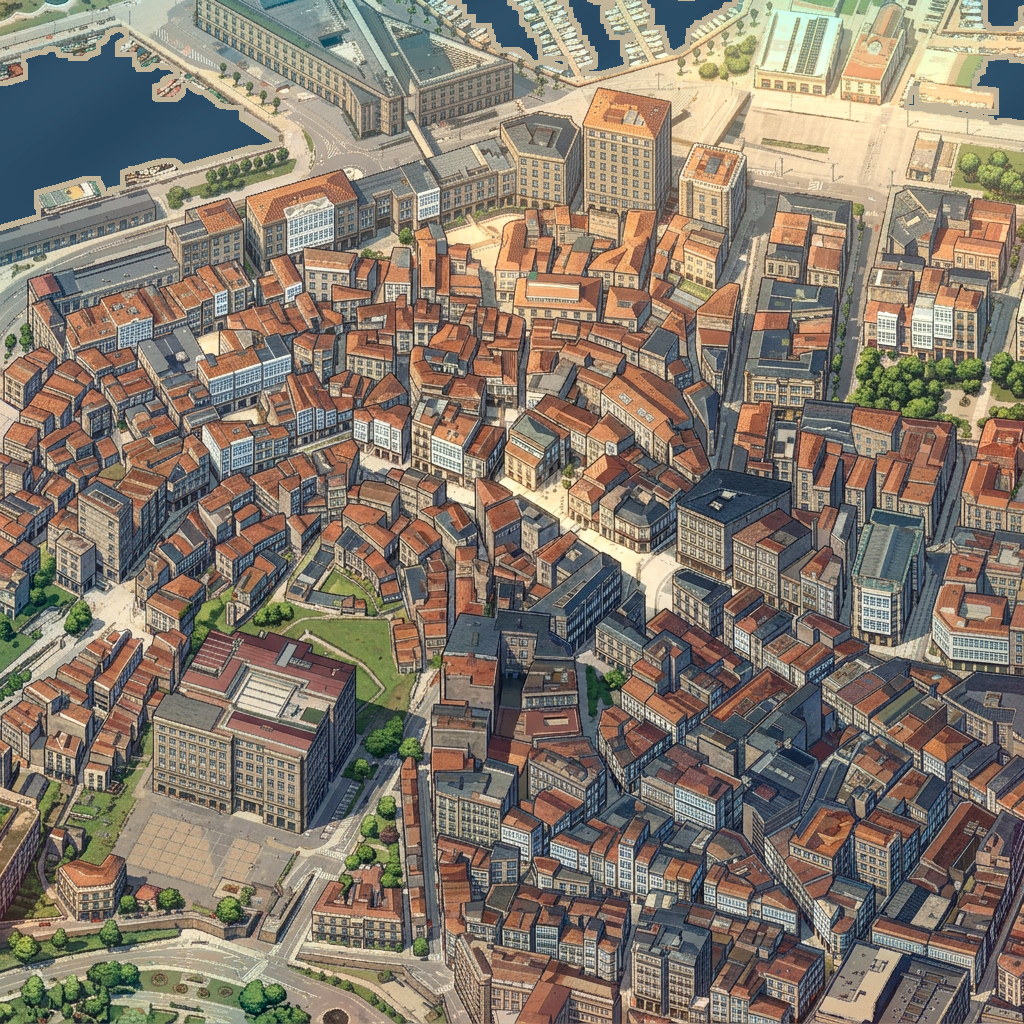
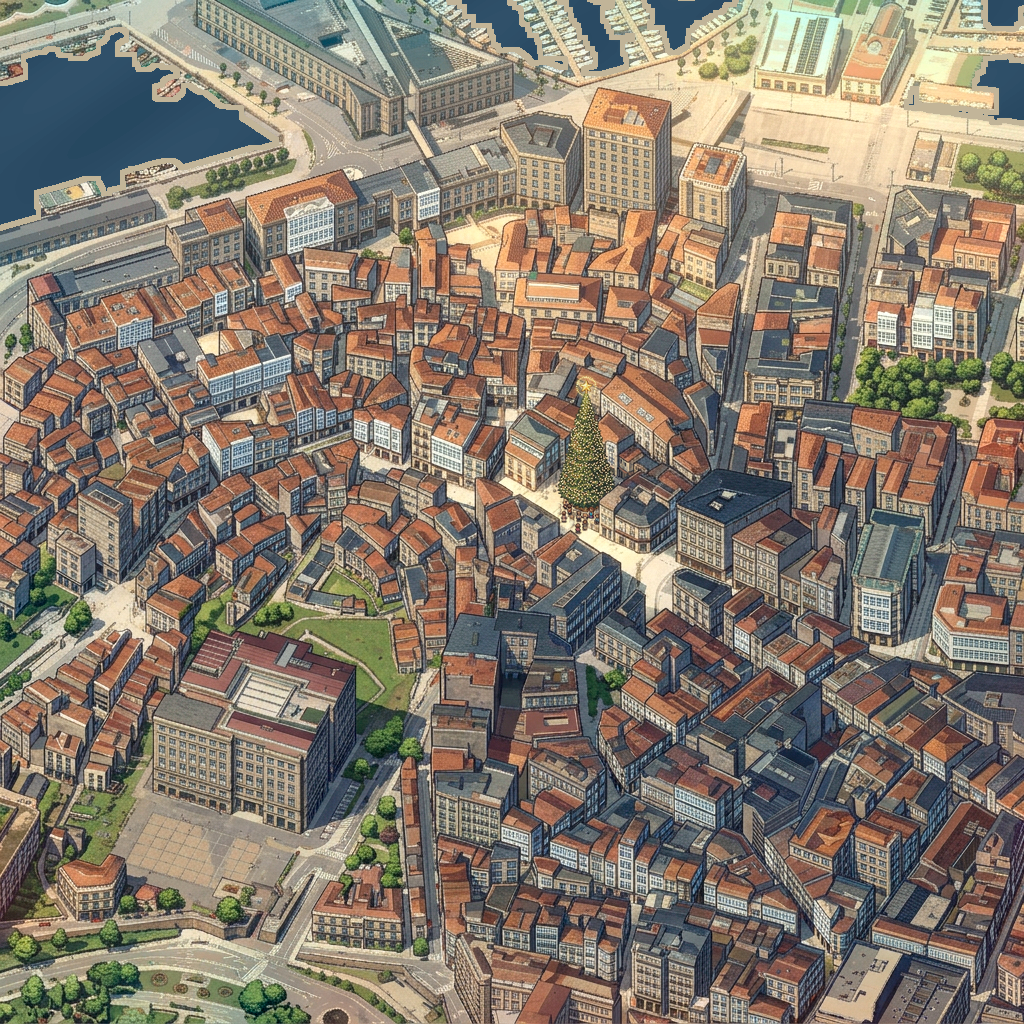
fix(map): locate and mask the Porta do Sol tree by the real plaza crop
The previous attempt fed the whole 512 m centre crop to the model, so the
45 m tree was negligible in frame and the model drew it over the wrong
square (by the Concello); the fixed-region mask then cut the real tree
out and kept only a patch of repainted roofs with no tree in it.

pipeline/arbol_porta_sol.py: crops a 350 px square straight out of the
georeferenced plaza centre (canvas centre = Porta do Sol, 42.23807
-8.72581), upscales it to 1024 px before the call, and builds the
composite mask from the model's own 1024 px output (open + largest
connected component kills the round-trip resampling noise that a plain
threshold picks up along the street) so it follows the tree + crowd +
shadow wherever they land, never a fixed box. Outside the mask the
result is bit-identical to the source. Night still needs the same fix.

diff --git a/web/ui/assets-prueba.html b/web/ui/assets-prueba.html
@@ -21,7 +21,7 @@
 <body>
 <h1>Prueba de asset: el árbol de Porta do Sol</h1>
 <p class="lead">Método: recorte del bloque ensamblado → el modelo pinta el árbol dentro, mismo estilo → se compone con máscara suave (fuera queda el bloque intacto). Sin croma ni recorte pegado.</p>
-<div class="aviso">Validación visual pendiente: el modelo de visión (OpenCode Go kimi-k3) está en límite. Compara tú por ahora.</div>
+<div class="aviso">Rehecho (pipeline/arbol_porta_sol.py): el intento anterior pintaba el árbol fuera de la Porta do Sol real y la máscara lo recortaba, dejando solo un parche de tejados repintados sin árbol. Ahora se recorta un cuadro de 350 px centrado en la plaza (georreferencia del lienzo, 42.23807 -8.72581), se amplía a 1024 px antes de llamar al modelo, y se compone con una máscara que sale del propio cambio de píxeles (árbol + gente + su sombra), no de una zona fija: fuera de ese contorno el resultado es bit a bit igual al original. Noche todavía pendiente de la misma corrección.</div>
 
 <h2>Día · antes / después (a escala real, 512 m)</h2>
 <div class="par">

diff --git a/pipeline/arbol_porta_sol.py b/pipeline/arbol_porta_sol.py
@@ -1,0 +1,127 @@
+"""Paint the 45 m Christmas tree of Porta do Sol inside the block, by code around one image call.
+
+Fixes the broken attempt of f134bee: the call was fed the whole 512 m centre crop (1024 px), so the
+45 m tree (60-90 px at 2 px/m) was lost in the frame and the model put a tree somewhere else (the big
+paved square by the Concello); the mask then kept a repainted patch of roofs with no tree in it at all.
+
+This script crops a small ~350 px square straight out of the geo-referenced centre of the canvas
+(canvas centre = Porta do Sol, 42.23807 -8.72581, per Jose), upscales it to 1024 px before the call so
+the model has room to draw fine light detail, downscales the answer back to 350 px, and composites it
+with a mask built from the actual pixel difference (tree + its shadow only) — never a fixed region, so
+it adapts to wherever the model really drew the tree. Buildings outside that footprint are bit-identical
+to the source.
+
+    python3 pipeline/arbol_porta_sol.py --call                 # spend one image call, then composite
+    python3 pipeline/arbol_porta_sol.py --from work/assets/arbol-porta-sol-out.png   # reuse an answer, no call
+"""
+from __future__ import annotations
+
+import argparse
+import os
+import subprocess
+import sys
+from pathlib import Path
+
+import cv2
+import numpy as np
+from PIL import Image
+
+ROOT = Path(__file__).resolve().parents[1]
+CANVAS = Path.home() / "proyectos/NaviHack/work/tiles-p3/ensamblado-v6.png"  # best current style (v6)
+OUT_DIR = ROOT / "work/assets"
+PROMPT = ROOT / "pipeline/prompts/arbol-add-full.txt"
+# centre of the plaza, found by eye around the geo-referenced canvas centre (1536,1536) = Porta do Sol
+CX, CY, HALF = 1608, 1518, 175  # box: (1433,1343)-(1783,1693), 350x350
+
+
+def crop_box() -> tuple[int, int, int, int]:
+    return (CX - HALF, CY - HALF, CX + HALF, CY + HALF)
+
+
+def build_mask(src: np.ndarray, dst: np.ndarray, *, open_px: int = 5, dilate_px: int = 9, blur: float = 5.0) -> np.ndarray:
+    """Soft mask of what the model actually changed, at the model's own 1024 px resolution (not after
+    the lossy downscale to 350 px, where the tree and the round-trip resampling noise sit too close in
+    magnitude to separate cleanly). OPEN before labelling drops the thin, scattered 1-2 px noise trail
+    along streets and roof edges; the tree + its crowd stay one thick solid blob, always the biggest
+    component after opening — nothing about its shape is assumed, so it follows wherever the model
+    really drew the tree."""
+    sl = cv2.cvtColor(src, cv2.COLOR_RGB2LAB).astype(np.float32)
+    dl = cv2.cvtColor(dst, cv2.COLOR_RGB2LAB).astype(np.float32)
+    d = np.linalg.norm(sl - dl, axis=2)
+    h, w = d.shape
+    opened = cv2.morphologyEx((d > 15).astype(np.uint8), cv2.MORPH_OPEN, np.ones((open_px, open_px), np.uint8))
+    n, labels, stats, _ = cv2.connectedComponentsWithStats(opened, connectivity=8)
+    if n <= 1:
+        return np.zeros((h, w), np.float32)
+    biggest = 1 + int(np.argmax(stats[1:, cv2.CC_STAT_AREA]))
+    m = (labels == biggest).astype(np.uint8)
+    m = cv2.dilate(m, np.ones((dilate_px, dilate_px), np.uint8), iterations=1)
+    soft = cv2.GaussianBlur(m.astype(np.float32), (0, 0), blur)
+    return np.clip(soft, 0, 1)
+
+
+def main() -> None:
+    ap = argparse.ArgumentParser()
+    ap.add_argument("--call", action="store_true", help="spend one image call")
+    ap.add_argument("--from-file", dest="from_file", type=Path, default=None, help="reuse an existing model answer")
+    ap.add_argument("--label", default="arbol-porta-sol-v2")
+    a = ap.parse_args()
+    OUT_DIR.mkdir(parents=True, exist_ok=True)
+
+    canvas = Image.open(CANVAS).convert("RGB")
+    box = crop_box()
+    crop350 = canvas.crop(box)
+    crop350.save(OUT_DIR / "arbol-ps-crop350.png")
+    crop1024 = crop350.resize((1024, 1024), Image.LANCZOS)
+    in1024 = OUT_DIR / "arbol-ps-in1024.png"
+    crop1024.save(in1024)
+
+    out1024 = OUT_DIR / "arbol-ps-out1024.png"
+    if a.from_file:
+        out1024 = a.from_file
+    elif a.call:
+        cmd = ["node", str(ROOT / "pipeline/imggen.mjs"), str(out1024), str(PROMPT), str(in1024)]
+        env = {**os.environ, "MODEL": "gemini-3.1-flash-image", "AR": "1:1", "LABEL": a.label}
+        r = subprocess.run(cmd, env=env)
+        if r.returncode != 0:
+            sys.exit(r.returncode)
+    else:
+        print("nothing to do: pass --call or --from-file <path>")
+        return
+
+    out350 = Image.open(out1024).convert("RGB").resize((350, 350), Image.LANCZOS)
+    out350.save(OUT_DIR / "arbol-ps-out350.png")
+
+    # the mask separates cleanly only at the model's own 1024 px resolution (see build_mask); shrink
+    # just the (smooth, low-frequency) mask down to 350 px and blend there with the *original* 350 px
+    # crop, never a resize round-trip of it — so every pixel the mask leaves alone is bit-identical to
+    # the source canvas, buildings included.
+    src1024 = np.asarray(Image.open(in1024).convert("RGB"))
+    dst1024 = np.asarray(Image.open(out1024).convert("RGB"))
+    mask1024 = build_mask(src1024, dst1024)
+    Image.fromarray((mask1024 * 255).astype(np.uint8)).save(OUT_DIR / "arbol-ps-mask1024.png")
+    print("changed px (mask>0.5) at 1024:", int((mask1024 > 0.5).sum()), "/", 1024 * 1024)
+    mask350 = cv2.resize(mask1024, (350, 350), interpolation=cv2.INTER_AREA)[..., None]
+
+    src = np.asarray(crop350)
+    dst = np.asarray(out350)
+    result = (src.astype(np.float32) * (1 - mask350) + dst.astype(np.float32) * mask350).astype(np.uint8)
+    Image.fromarray(result).save(OUT_DIR / "arbol-ps-result350.png")
+    unchanged = (mask350[..., 0] < 0.02)
+    bit_exact = bool(np.array_equal(result[unchanged], src[unchanged]))
+    print("pixels left untouched outside mask:", int(unchanged.sum()), "/", 350 * 350, "bit-exact:", bit_exact)
+
+    full = np.asarray(canvas).copy()
+    x0, y0, x1, y1 = box
+    full[y0:y1, x0:x1] = result
+    Image.fromarray(full).save(OUT_DIR / "canvas-con-arbol.png")
+
+    w, h = canvas.size
+    cx, cy = w // 2, h // 2
+    demo = Image.fromarray(full).crop((cx - 512, cy - 512, cx + 512, cy + 512))
+    demo.save(OUT_DIR / "dia-despues-v2.png")
+    print("saved", OUT_DIR / "dia-despues-v2.png")
+
+
+if __name__ == "__main__":
+    main()
